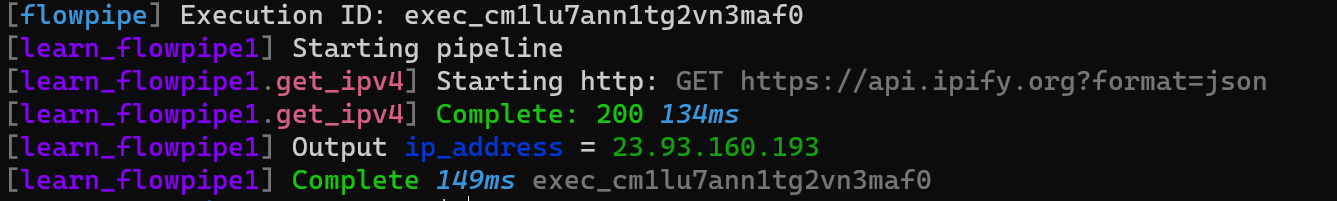
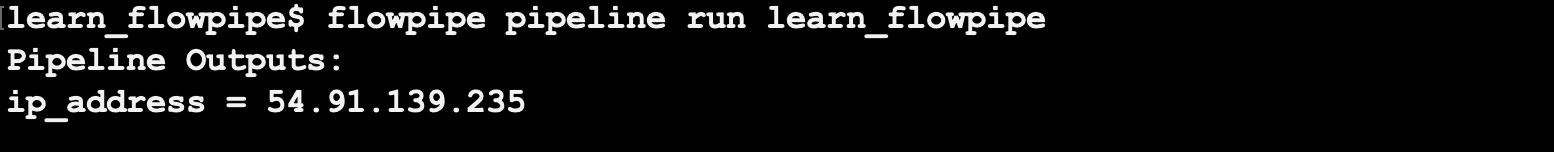
CLI v0.6.0 doc update. (#57)

diff --git a/docs/flowpipe-hcl/step/input.md b/docs/flowpipe-hcl/step/input.md
@@ -5,7 +5,12 @@ sidebar_label: input
 
 # input
 
-Use the `input` step primitive to prompt for user input.  The pipeline will send the prompt to one or more [integrations](/docs/reference/config-files/integration) via a [notifier](/docs/reference/config-files/notifier).  It will then pause and wait for a response.  When a response is received, the pipeline will continue and the step will return the selected `value`.
+Use the `input` step primitive to prompt for user input.  When the pipeline reaches an `input` step, it will prompt the user for input and then pause and wait for a response.  When a response is received, the pipeline will continue and the step will return the selected `value`.
+
+When you run a pipeline in [client-mode](/docs/run#operating-modes), notifications for `input` steps will only appear on the command line.  
+
+In [server-mode](/docs/run/server), notifications for `input` steps are not sent to the console.  Instead, they are sent to [integrations](/docs/reference/config-files/integration/) such as Slack or Email via a [notifier](/docs/reference/config-files/notifier), allowing you to create collaborative workflows that integrate with your preferred communication channels.
+
 
 ```hcl
 pipeline "my_step" {
@@ -85,6 +90,10 @@ This step also supports the [common step arguments](/docs/flowpipe-hcl/step#comm
 ----
 ### Button - Simple 
 
+##### Console (Client-Mode)
+![](/images/docs/flowpipe-hcl/input_button_simple_console.png)
+
+
 ##### HTTP
 ![](/images/docs/flowpipe-hcl/input_button_simple_http.png)
 
@@ -115,6 +124,9 @@ pipeline "my_pipe" {
 ----
 
 ### Button - With labels and values 
+
+##### Console (Client-Mode)
+![](/images/docs/flowpipe-hcl/input_button_simple_console.png)
 
 ##### HTTP
 ![](/images/docs/flowpipe-hcl/input_button_simple_http.png)
@@ -154,6 +166,10 @@ pipeline "my_pipe" {
 
 ### Select - basic
 
+##### Console (Client-Mode)
+![](/images/docs/flowpipe-hcl/input_select_simple_console.png)
+
+
 ##### HTTP
 ![](/images/docs/flowpipe-hcl/input_select_simple_http_open.png)
 
@@ -162,7 +178,7 @@ pipeline "my_pipe" {
 
 
 ```hcl
-pipeline "my_pipe" {
+pipeline "my_select" {
 
   step "input" "select_region" {
     notifier = notifier.default
@@ -191,6 +207,9 @@ pipeline "my_pipe" {
 
 #### Select - with labels & default selection
 
+##### Console (Client-Mode)
+![](/images/docs/flowpipe-hcl/input_select_labels_console.png)
+
 ##### HTTP
 ![](/images/docs/flowpipe-hcl/input_select_labels_http_open.png)
 
@@ -199,7 +218,7 @@ pipeline "my_pipe" {
 
 
 ```hcl
-pipeline "my_pipe" {
+pipeline "my_select_labels" {
 
   step "input" "select_region" {
     notifier = notifier.default
@@ -237,6 +256,10 @@ pipeline "my_pipe" {
 
 ### Multiselect  - basic
 
+##### Console (Client-Mode)
+![](/images/docs/flowpipe-hcl/input_multiselect_simple_console.png)
+
+
 ##### HTTP
 ![](/images/docs/flowpipe-hcl/input_multiselect_simple_http_selected.png)
 
@@ -245,7 +268,7 @@ pipeline "my_pipe" {
 
 
 ```hcl
-pipeline "my_pipe" {
+pipeline "my_multi" {
 
   step "input" "select_regions" {
     notifier = notifier.default
@@ -275,6 +298,10 @@ pipeline "my_pipe" {
 
 ### Multiselect with labels & default selection
 
+##### Console (Client-Mode)
+![](/images/docs/flowpipe-hcl/input_multiselect_labels_console_selected.png)
+
+
 ##### HTTP
 ![](/images/docs/flowpipe-hcl/input_multiselect_labels_http_selected.png)
 
@@ -283,7 +310,7 @@ pipeline "my_pipe" {
 
 
 ```hcl
-pipeline "my_pipe" {
+pipeline "my_multi_labels" {
 
   step "input" "select_regions" {
     notifier = notifier.default

diff --git a/docs/learn.md b/docs/learn.md
@@ -57,7 +57,15 @@ flowpipe pipeline run learn_flowpipe
 
 ![](/images/docs/learn/get-ipv4.png)
 
-Flowpipe runs the pipeline and prints information about the currently executing steps. When the pipeline run completes, Flowpipe prints the pipeline's outputs.
+Flowpipe runs the pipeline and prints its outputs once it is complete.
+
+When troubleshooting, it's often useful to view more information about the currently executing steps.  You can use the `--verbose` flag to show this detailed information.
+
+```bash
+flowpipe pipeline run learn_flowpipe --verbose
+```
+
+![](/images/docs/learn/get-ipv4-verbose.png)
 
 ## Using mods
 
@@ -201,9 +209,6 @@ pipeline "learn_flowpipe" {
 
 Now we have a pipeline that can get the local forecast - let's send it somewhere!  The [message step](/docs/flowpipe-hcl/step/message) provides a mechanism for sending messages via multiple communication channels, such as Slack and Email. 
 
-
-The `message` step (along with the [`input` step](/docs/build/input)) routes messages to an [integration](/docs/reference/config-files/integration) via a [notifier](/docs/reference/config-files/notifier). You don't need to create these to get started though;  Flowpipe creates a default [`http` integration](/docs/reference/config-files/integration/http) as well as a [default notifier](/docs/reference/config-files/notifier#default-notifier) that routes to it.
-
 Add this step to the `learn_flowpipe` pipeline.
 
 ```hcl
@@ -220,8 +225,19 @@ And run the pipeline again.
 flowpipe pipeline run learn_flowpipe
 ```
 
-You should see the message printed to the console when you run the pipeline. You can send it via [Email](/docs/reference/config-files/integration/email), [Slack](/docs/reference/config-files/integration/slack) or [Microsoft Teams](/docs/reference/config-files/integration/msteams) without modifying the pipeline code.  Just create the appropriate [integrations](/docs/reference/config-files/integration), add them to the [default notifier](/docs/reference/config-files/notifier#default-notifier), and run the pipeline again!
+You should see the message printed to the console when you run the pipeline. 
 
+Console messages and inputs are useful, but Flowpipe can also route these input requests, approvals and notifications to external systems like Slack, MS Teams, and Email!
+
+Flowpipe [Integrations](/docs/reference/config-files/integration) allow you to interface with external systems.  [Notifiers](/docs/reference/config-files/notifier) allow you to route [message](/docs/flowpipe-hcl/step/message) and [input](/docs/build/input) steps to one or more integrations.  Integrations are only loaded in [server-mode](/docs/run/server).
+
+ 
+Flowpipe server creates a default [`http` integration](/docs/reference/config-files/integration/http) as well as a [default notifier](/docs/reference/config-files/notifier#default-notifier) that routes to it, but you can send it via [Email](/docs/reference/config-files/integration/email), [Slack](/docs/reference/config-files/integration/slack) or [Microsoft Teams](/docs/reference/config-files/integration/msteams) without modifying the pipeline code.  Just create the appropriate [integrations](/docs/reference/config-files/integration), add them to the [default notifier](/docs/reference/config-files/notifier#default-notifier), and run the pipeline again from a server instance!
+
+```bash
+flowpipe server &
+flowpipe pipeline run learn_flowpipe --host local
+```
 
 ![](/images/docs/learn/slack-weather-report.png)
 

diff --git a/docs/build/input.md b/docs/build/input.md
@@ -11,6 +11,8 @@ To interact with the various tools and services, Flowpipe also includes an `inte
 
 Sending notifications is a common pattern, and often users will want to route a request to more than one user, group, or channel, and via more than one delivery mechanism.  For instance, you may want to request approval via Slack AND email.  The `notifier` resource allows you to define a list of integrations to send notifications to. Like `integration`, a `notifier` is an installation-level configuration resource.
 
+Flowpipe [integrations](/docs/reference/config-files/integration/) require callback endpoints, so they only work in [server-mode](/docs/run/server).  When you run a pipeline in [client-mode](/docs/run#operating-modes), notifications for [input](/docs/flowpipe-hcl/step/input) and [message](/docs/flowpipe-hcl/step/message) steps will only appear on the command line, regardless of your `notifier` and `integration` configuration.  To send [input](/docs/flowpipe-hcl/step/input) and [message](/docs/flowpipe-hcl/step/message) requests to external services, you must run [Flowpipe server](/docs/run/server)!
+
 
 
 ## Adding an input step to your pipeline
@@ -51,7 +53,24 @@ pipeline "play_a_game" {
 This pipeline will prompt the user to select a game to play using a `select` box (there are other [input step types](/docs/flowpipe-hcl/step/input#input-types), such as `text`, `button`, and `multiselect`).
 After the user selects a game, the pipeline will send back a message with a hyperlink to the selected game.
 
-The `input` and `message` steps route messages to an [integration](/docs/reference/config-files/integration) via a [notifier](/docs/reference/config-files/notifier). You don't need to create these to get started though;  Flowpipe creates a default [`http` integration](/docs/reference/config-files/integration/http) as well as a [default notifier](/docs/reference/config-files/notifier#default-notifier) that routes to it.
+
+## Running in Client-Mode
+
+If you run the pipeline in [client-mode](/docs/run#operating-modes), pipes will prompt you on the console and wait for your response. 
+
+![](/images/docs/build/input_console_select_game.png)
+
+
+Once you respond, the pipeline will continue.
+
+![](/images/docs/build/play_game_console.png)
+
+
+## Running in Server-Mode
+
+Inputs and messages are sent only to the console when running in client-mode, which is suitable for testing your pipelines, or for running pipelines that do not require coordination with others.  Running in server-mode, however, allows you to route messages and inputs to external systems and services, like Slack or email.
+
+When running in server-mode, the `input` and `message` steps route messages to an [integration](/docs/reference/config-files/integration) via a [notifier](/docs/reference/config-files/notifier). You don't need to create these to get started though;  Flowpipe creates a default [`http` integration](/docs/reference/config-files/integration/http) as well as a [default notifier](/docs/reference/config-files/notifier#default-notifier) that routes to it.
 
 Integrations are only loaded in [server mode](/docs/run/server), so let's start the Flowpipe server:
 ```bash

diff --git a/docs/run/index.md b/docs/run/index.md
@@ -20,6 +20,6 @@ Flowpipe will load [configuration files](/docs/reference/config-files) (`*.fpc`)
 
 Flowpipe can operate in 2 modes.
 
-By default, Flowpipe runs in **Client-only Mode**.  Flowpipe loads the mod, runs the command, and exits. [Triggers](/docs/build/triggers) are not enabled in Client-Only Mode.
+By default, Flowpipe runs in **Client-only Mode**.  Flowpipe loads the mod, runs the command, and exits. [Triggers](/docs/build/triggers) are not enabled in Client-Only Mode.  [Integrations](/docs/reference/config-files/integration/) are not available in Client-Only mode, and all [message](/docs/flowpipe-hcl/step/message) and [input](/docs/flowpipe-hcl/step/input) steps will route to the console.
 
-If you run Flowpipe in **Server Mode** mode, Flowpipe will run an API server (on port `7103` by default).  In [this mode](/docs/run/server), you can create [triggers](/docs/flowpipe-hcl/trigger) that run pipelines [on a schedule](/docs/flowpipe-hcl/trigger/schedule) or in response to events such as [webhooks](/docs/flowpipe-hcl/trigger/http).  After you start the Flowpipe server, you can run Flowpipe commands against it by specifying the [--host](/docs/reference/cli) argument.
+If you run Flowpipe in **[Server Mode](/docs/run/server)** mode, Flowpipe will run an API server (on port `7103` by default).  In Server-Mode, you can create [triggers](/docs/flowpipe-hcl/trigger) that run pipelines [on a schedule](/docs/flowpipe-hcl/trigger/schedule) or in response to events such as [webhooks](/docs/flowpipe-hcl/trigger/http).  Your pipelines can send [messages](/docs/flowpipe-hcl/step/message) and prompt for [input](/docs/flowpipe-hcl/step/input) via Slack, Email, or other [integrations](/docs/reference/config-files/integration/). After you start the Flowpipe server, you can run Flowpipe commands against it by specifying the [--host](/docs/reference/cli) argument.

diff --git a/docs/reference/config-files/integration/index.md b/docs/reference/config-files/integration/index.md
@@ -6,7 +6,12 @@ sidebar_label: integration
 
 # Integration
 
-Use the `integration` block to configure how pipelines interact with external system, such as Slack or Email, via [input](/docs/flowpipe-hcl/step/input) and [message](/docs/flowpipe-hcl/step/message) steps. Integrations are *configuration* resources, defined in configuration files (`.fpc`), not mod files(`.fp`).  Here's why:
+Use the `integration` block to configure how pipelines interact with an external system, such as Slack or Email, via [input](/docs/flowpipe-hcl/step/input) and [message](/docs/flowpipe-hcl/step/message) steps.
+
+Like [triggers](/docs/build/triggers), integrations require callback endpoints, so they only work in [server-mode](/docs/run/server).  When you run a pipeline in [client-mode](/docs/run#operating-modes), notifications for [input](/docs/flowpipe-hcl/step/input) and [message](/docs/flowpipe-hcl/step/message) steps will only appear on the command line, regardless of your `notifier` and `integration` configuration.  To send [input](/docs/flowpipe-hcl/step/input) and [message](/docs/flowpipe-hcl/step/message) requests to your integrations, you must run [Flowpipe server](/docs/run/server)!
+
+
+Integrations are *configuration* resources, defined in configuration files (`.fpc`), not mod files(`.fp`).  Here's why:
 - The settings are installation-specific and may contain secrets.
 - The settings are usually the same for *all* mods in a given installation.
 

diff --git a/docs/reference/cli/pipeline.md b/docs/reference/cli/pipeline.md
@@ -30,6 +30,7 @@ flowpipe pipeline run pipeline_name [args]
 |-|-|-
 | `--arg string=string` | `run` | Specify the value of a pipeline argument. Multiple `--arg` arguments may be passed.
 | `--detach`   | `run` | Start the pipeline and return immediately.  By default, `flowpipe pipeline run` will run the pipeline and wait for the results. You may only use `--detach` when running a pipeline from a server instance (by specifying `--host`, for example).
+| `--execution-id` | `run`| Specify pipeline execution id. Execution id will generated if not provided.
 | `--var string=string` | `run`| Specify the value of a variable.  Multiple `--var` arguments may be passed. 
 | `--var-file strings`| `run`| Specify an .fpvar file containing variable values.
 | `--verbose`   | `run` | View detailed event information, including step arguments and attributes.

diff --git a/docs/flowpipe-hcl/step/message.md b/docs/flowpipe-hcl/step/message.md
@@ -5,7 +5,11 @@ sidebar_label: message
 
 # message
 
-Use the `message` step to send a message to an [integration](/docs/reference/config-files/integration) via a [notifier](/docs/reference/config-files/notifier).
+Use the `message` step to send a one-way notification message from your pipeline.
+
+When you run a pipeline in [client-mode](/docs/run#operating-modes), notifications for `message` steps will only appear on the command line.  
+
+In [server-mode](/docs/run/server), notifications for `message` steps are not sent to the console.  Instead, they are sent to [integrations](/docs/reference/config-files/integration/) such as Slack or Email via a [notifier](/docs/reference/config-files/notifier), allowing you to create collaborative workflows that integrate with your preferred communication channels.
 
 
 ```hcl

diff --git a/docs/reference/cli/index.md b/docs/reference/cli/index.md
@@ -44,6 +44,14 @@ sidebar_label: Flowpipe CLI
   </tr>
 
   <tr> 
+    <td nowrap="true"> <inlineCode>--data-dir</inlineCode> </td> 
+    <td>  
+    Sets the event store data directory. Flowpipe defaults to the `.flowpipe` directory in the current mod directory. This argument allows you to specify a different directory.
+    </td> 
+  </tr>
+
+
+  <tr> 
     <td nowrap="true"> <inlineCode>-h</inlineCode>, <inlineCode>--help</inlineCode> </td> 
     <td>  Help for Flowpipe. </td> 
   </tr>
